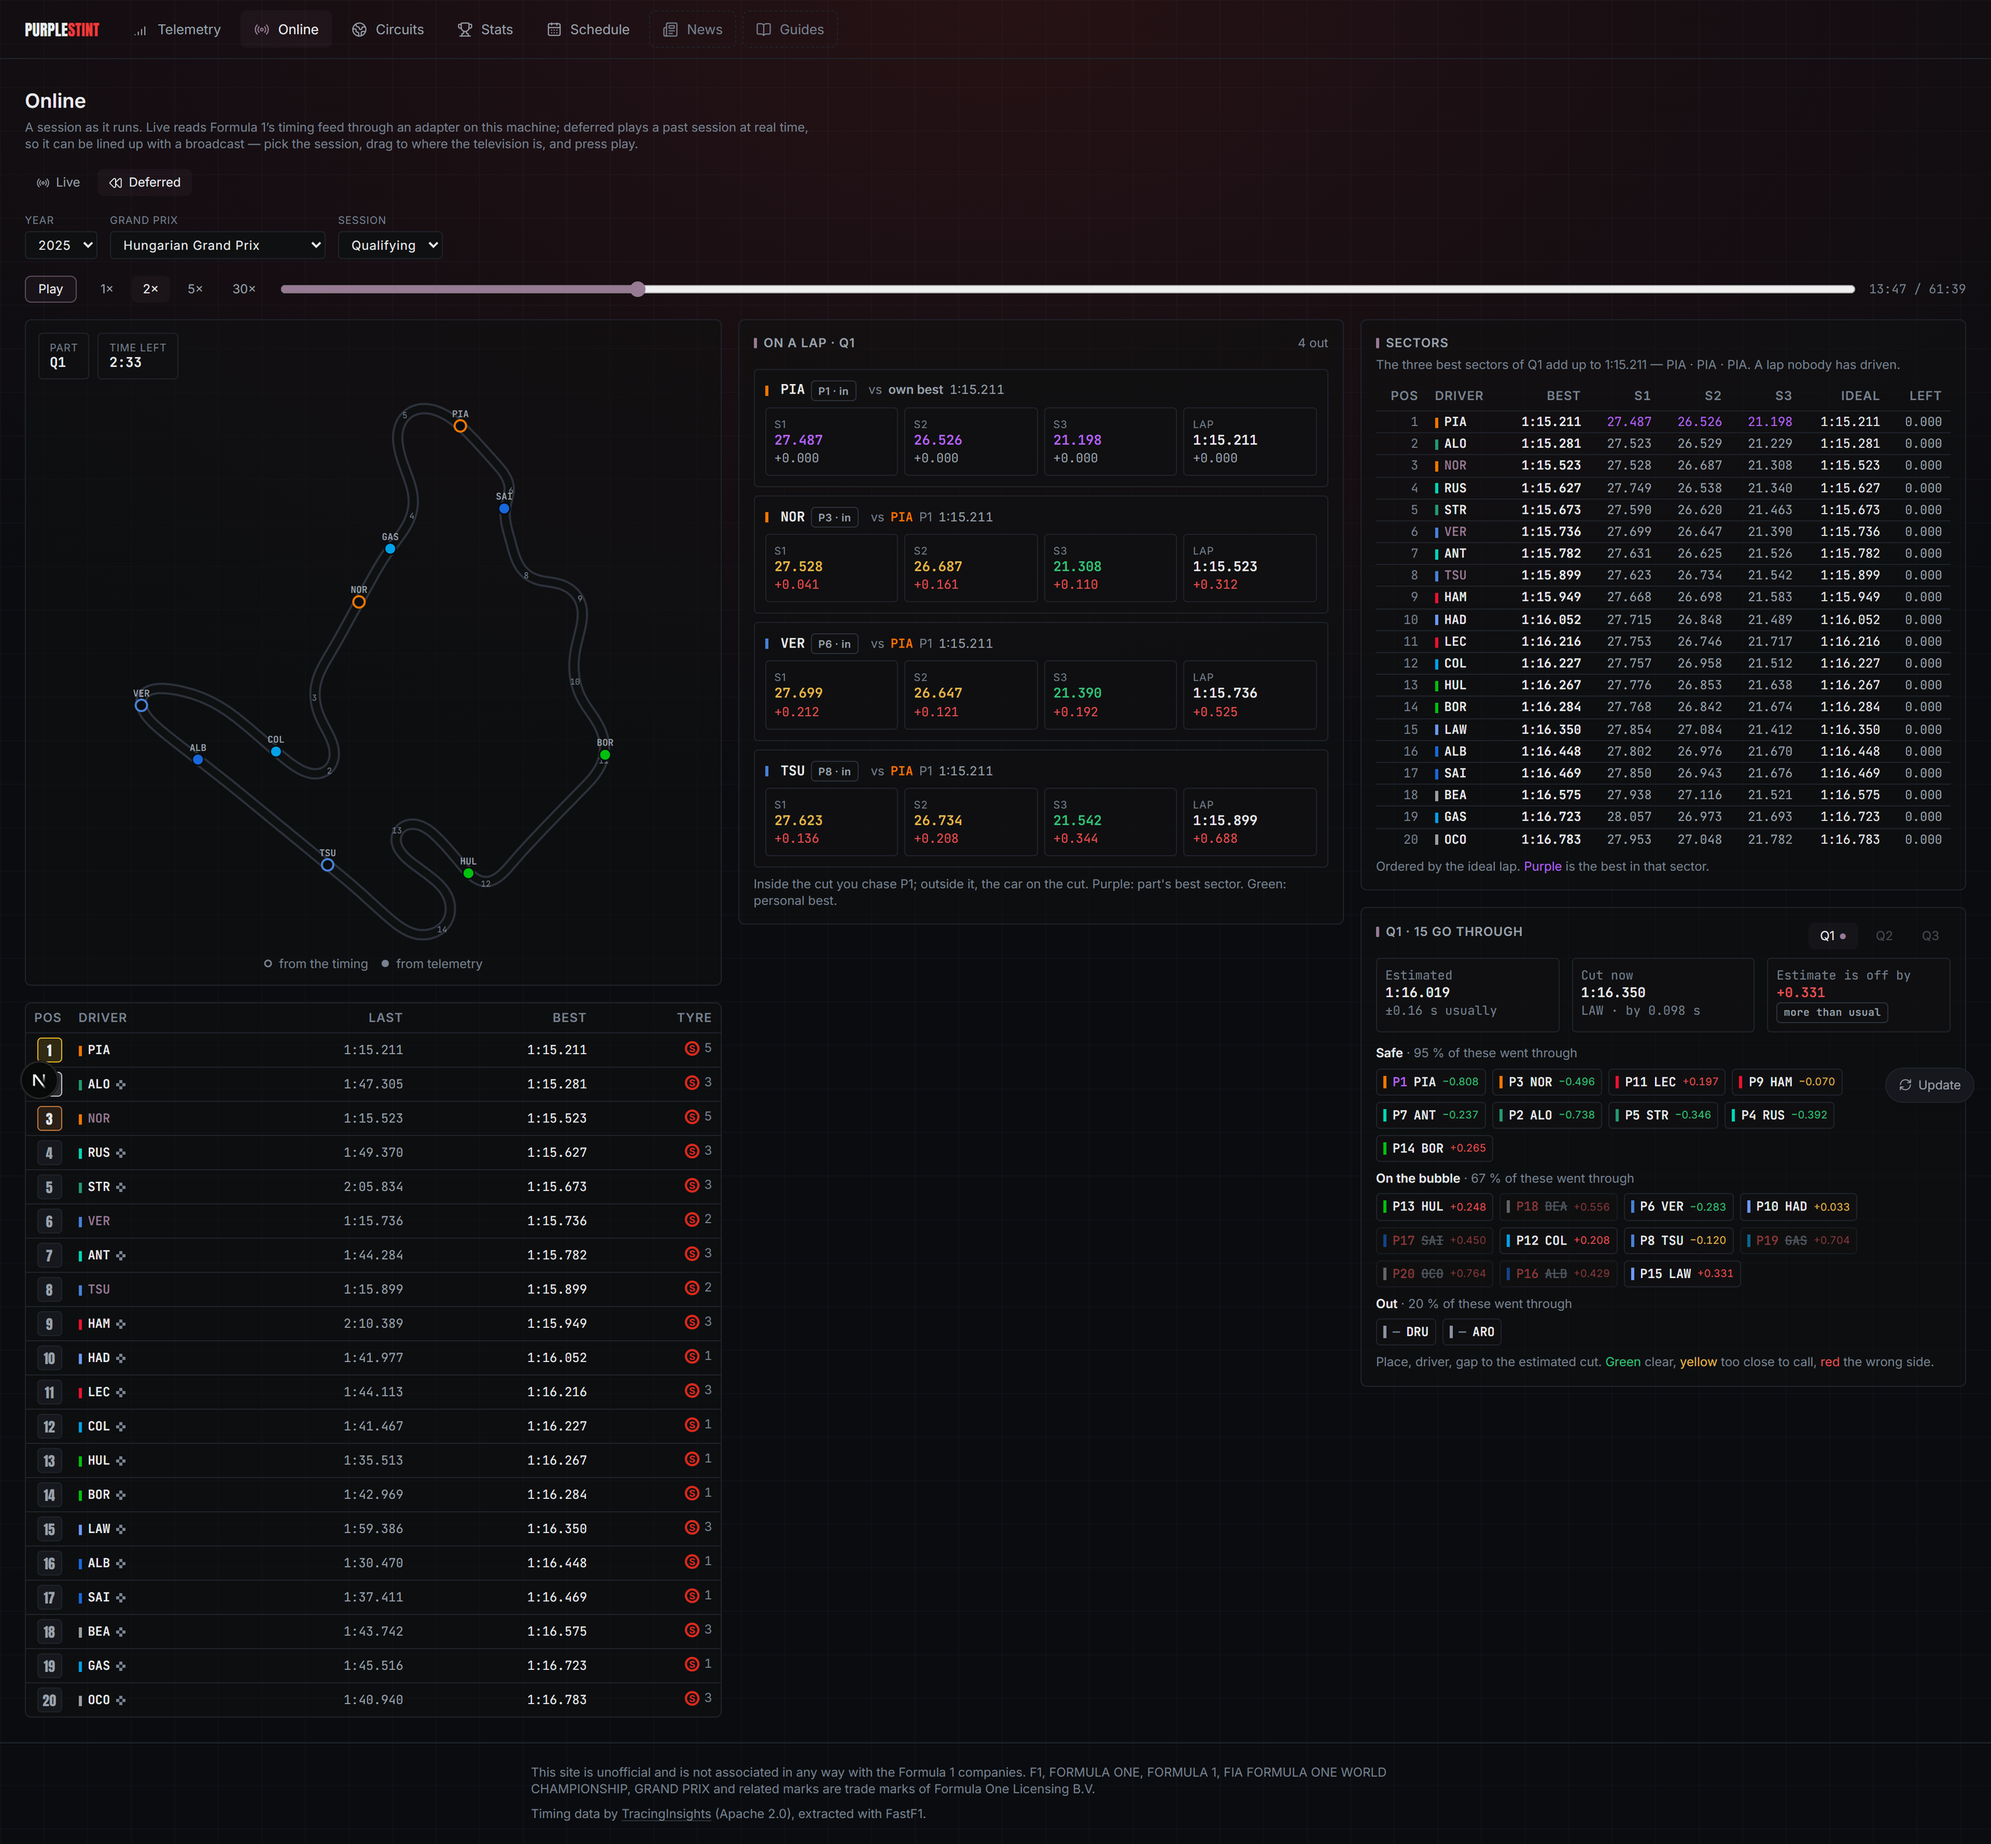
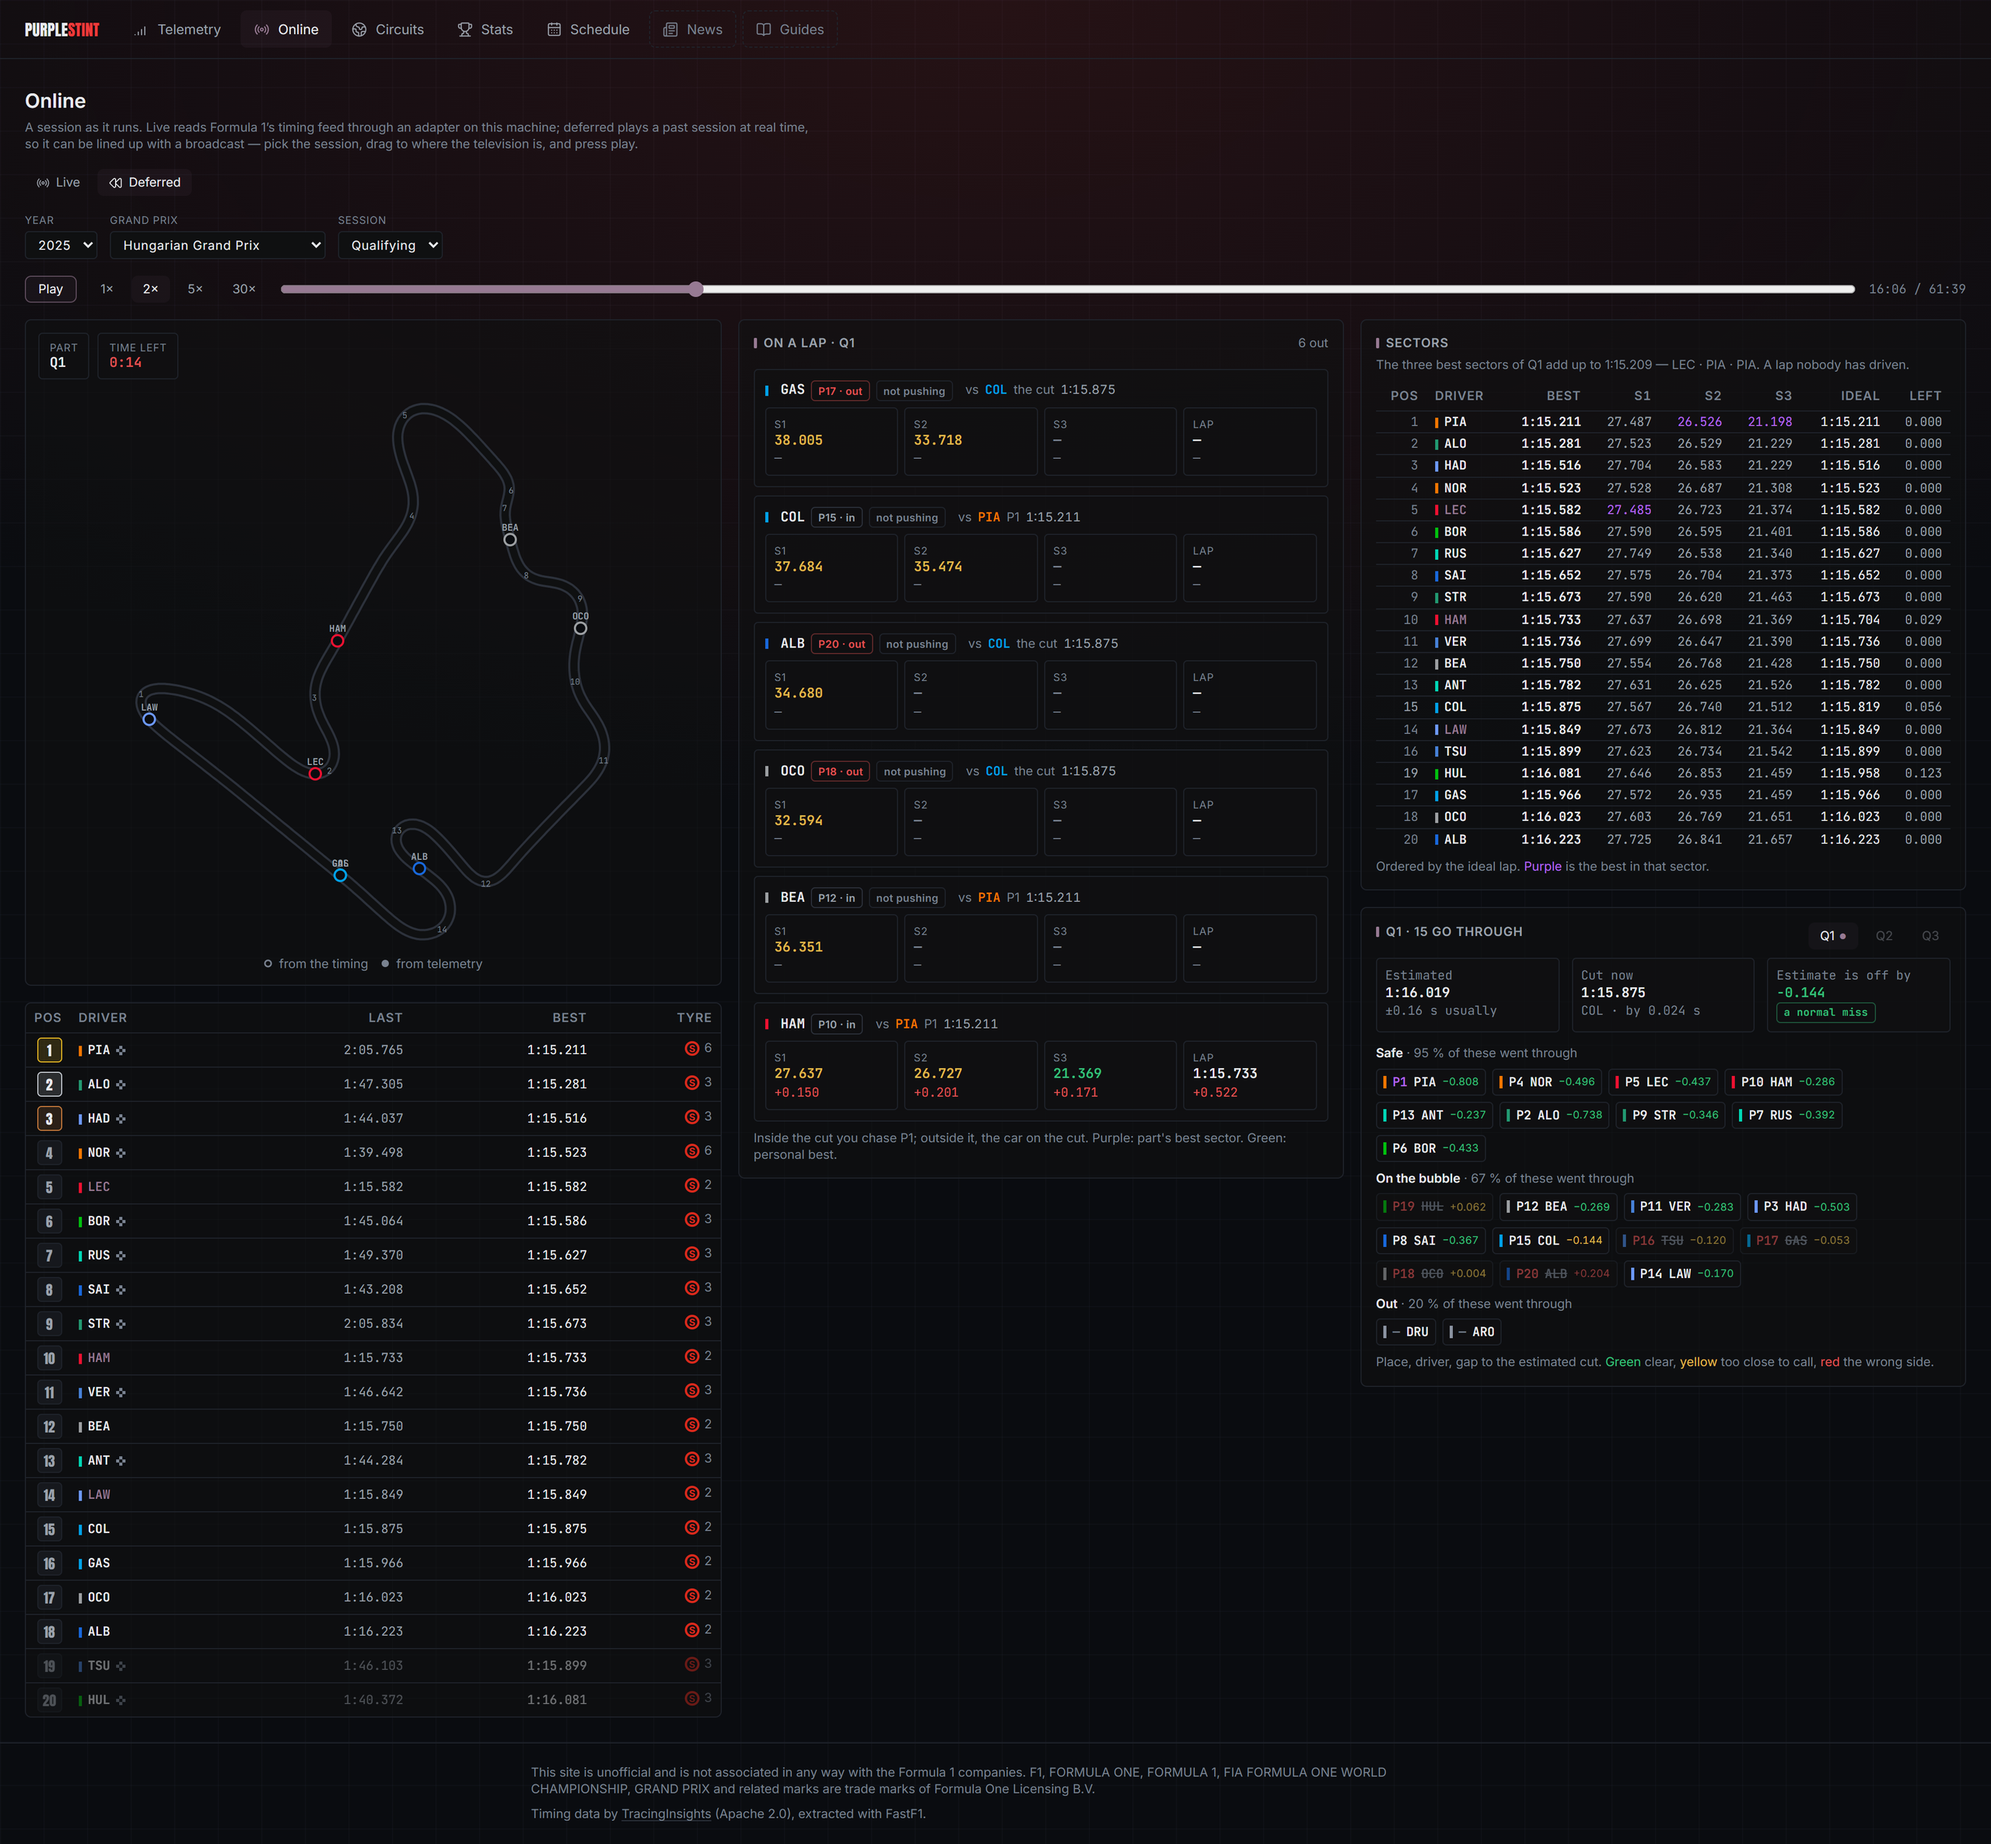
Purple Stint: every Online paragraph gets its picture
Four fixes to the section, all of them the reader's point of view.

The development chrome is out of the shots: the local data-update button and
Next's dev overlay are removed before the shutter, and a fullPage capture had
been parking the fixed one in the middle of the image.

The sessions run Friday, Saturday, Sunday, as a weekend does.

Qualifying is caught with the estimate already scored against the cut — the
cut at 1:15.875, the estimate 0.144 s off it and called a normal miss — which
is the view working rather than the view waiting.

And the map paragraph has the map: hollow cars placed from the timing, the
two solid ones drawn from their own telemetry, and the circuit's numbered
corners. It was the one claim on the page with nothing to look at.

diff --git a/index.html b/index.html
@@ -369,9 +369,10 @@ footer{text-align:center;padding:32px;border-top:1px solid var(--border);font-fa
 <div class="img-slider"><div class="img-slider-track" id="slider-ps-12"><div class="slide has-img shot" onclick="openLightbox(this)"><img loading="lazy" width="2560" height="2000" src="PurpleStint/P12 - Cut-off Madrid.png" alt="Cut-off — Madrid 2026: safe, on the bubble and out, with the measured rate beside each group"></div><div class="slide has-img shot" onclick="openLightbox(this)"><img loading="lazy" width="2560" height="2000" src="PurpleStint/P12 - Cut-off Hungary.png" alt="Cut-off — Hungary 2025: the estimate 0.150 s from the cut, a normal miss"></div></div><div class="slider-controls"><button class="slider-btn" onclick="scrollSlider(&#39;slider-ps-12&#39;,-1)">←</button><button class="slider-btn" onclick="scrollSlider(&#39;slider-ps-12&#39;,1)">→</button></div></div>
 
 <p><strong>Watching a session as it runs.</strong> A second way into the data: a live timing screen, a map and a panel of analysis that changes with the session. It reads Formula 1&rsquo;s own timing feed through a small adapter that runs on one machine, or replays an exported session at real time so it can be lined up with a broadcast. That feed carries no licence, so the page is built and then <em>deleted</em> from the published export by the same script that reports the deployment&rsquo;s size, and a test fails the build if the route ever survives it; what ships is the replay path and the analysis, both built from the Apache-2.0 data. The two sources meet at one frame format and one reducer, so the live tool and the replay share every line except the adapter &mdash; which is what lets the live path be tested at all: 51 tests drive it by folding whole real sessions off disk and checking the state against the session&rsquo;s own classification.</p>
-<p><strong>The map was empty, and the measurement said so.</strong> The circuit map looked broken and the first job was to find out why rather than to style it. Instrumented in a real browser it held 60 fps with no long tasks, and drew no car at all for twenty seconds at a stretch: the exported telemetry is one lap per driver, which over twenty cars is 41 % of a qualifying&rsquo;s clock and 28 % of a race&rsquo;s &mdash; fewer than one car on screen at any moment. So the map is driven from the timing instead, which is complete, and the telemetry is kept for the one thing timing cannot give: the shape of a lap. A car a third of the way through a lap in <em>time</em> is not a third of the way round in <em>distance</em>, and that relation is measured once off a real lap and every car placed through it. Checked against the telemetry it does not use, the placement lands 6 m from the truth at the median and 12 m at the ninetieth percentile on a qualifying lap, 7 m and 17 m on a race lap, on a 4.35 km circuit. A car whose telemetry is running is still drawn from it, solid; the rest are hollow, because an estimate should look like one.</p>
 <p><strong>Each session asks its own question.</strong> Friday reads the long runs &mdash; stints between pit visits with at least five clean laps, with the median pace, the interquartile spread as consistency and the slope of the run as degradation &mdash; where clean means within 12 % of the stint&rsquo;s best, a rule added after one cool-down lap put a 41 s lap inside a Friday run. Saturday carries the cut-off above, and beside it each car on a lap against the time that matters to it: inside the cut you chase P1, outside it the car on the cut, sector by sector. Sunday leads with the battles &mdash; consecutive cars within a second and a half, or closing fast enough to be soon, with the cumulative delta at each sector both have passed and the laps until the chaser arrives &mdash; and then the net order, where a stop&rsquo;s worth of time is added to whoever still owes the mandatory change. What a stop costs is measured from the stops that race has already had rather than assumed: 20.2 s over 23 stops at Hungary 2025, against the 19 s of pit lane the site reports elsewhere. The session clock is derived the same way, from the moment the pit lane opened plus the regulation length, and refused where it cannot be trusted &mdash; a red-flagged qualifying stops the clock and nothing in the export says for how long, so Monaco 2025 offers a clock for Q3 and none for Q1 or Q2.</p>
-<div class="img-slider"><div class="img-slider-track" id="slider-ps-13"><div class="slide has-img shot" onclick="openLightbox(this)"><img loading="lazy" width="2560" height="2104" src="PurpleStint/P13 - Online race.png" alt="Online — race: the circuit with the lap counter, the order beside it, and the battles with what the chaser is taking at each sector"></div><div class="slide has-img shot" onclick="openLightbox(this)"><img loading="lazy" width="2560" height="2372" src="PurpleStint/P13 - Online qualifying.png" alt="Online — qualifying: the part's clock, a car on a lap against the time that matters to it, the sector board and the cut"></div><div class="slide has-img shot" onclick="openLightbox(this)"><img loading="lazy" width="2560" height="2372" src="PurpleStint/P13 - Online practice.png" alt="Online — practice: long runs with pace, spread and degradation, beside the qualifying simulations"></div></div><div class="slider-controls"><button class="slider-btn" onclick="scrollSlider(&#39;slider-ps-13&#39;,-1)">&larr;</button><button class="slider-btn" onclick="scrollSlider(&#39;slider-ps-13&#39;,1)">&rarr;</button></div></div>
+<div class="img-slider"><div class="img-slider-track" id="slider-ps-13"><div class="slide has-img shot" onclick="openLightbox(this)"><img loading="lazy" width="2560" height="2372" src="PurpleStint/P13 - Online practice.png" alt="Online — practice: long runs with pace, spread and degradation, beside the qualifying simulations"></div><div class="slide has-img shot" onclick="openLightbox(this)"><img loading="lazy" width="2560" height="2372" src="PurpleStint/P13 - Online qualifying.png" alt="Online — qualifying: the estimate scored against the cut as it stands, with six cars on a lap"></div><div class="slide has-img shot" onclick="openLightbox(this)"><img loading="lazy" width="2560" height="2104" src="PurpleStint/P13 - Online race.png" alt="Online — race: the order beside the circuit, and the battles with what the chaser is taking at each sector"></div></div><div class="slider-controls"><button class="slider-btn" onclick="scrollSlider(&#39;slider-ps-13&#39;,-1)">&larr;</button><button class="slider-btn" onclick="scrollSlider(&#39;slider-ps-13&#39;,1)">&rarr;</button></div></div>
+<p><strong>The map was empty, and the measurement said so.</strong> The circuit map looked broken and the first job was to find out why rather than to style it. Instrumented in a real browser it held 60 fps with no long tasks, and drew no car at all for twenty seconds at a stretch: the exported telemetry is one lap per driver, which over twenty cars is 41 % of a qualifying&rsquo;s clock and 28 % of a race&rsquo;s &mdash; fewer than one car on screen at any moment. So the map is driven from the timing instead, which is complete, and the telemetry is kept for the one thing timing cannot give: the shape of a lap. A car a third of the way through a lap in <em>time</em> is not a third of the way round in <em>distance</em>, and that relation is measured once off a real lap and every car placed through it. Checked against the telemetry it does not use, the placement lands 6 m from the truth at the median and 12 m at the ninetieth percentile on a qualifying lap, 7 m and 17 m on a race lap, on a 4.35 km circuit. A car whose telemetry is running is still drawn from it, solid; the rest are hollow, because an estimate should look like one.</p>
+<div class="img-slider"><div class="img-slider-track" id="slider-ps-14"><div class="slide has-img shot" onclick="openLightbox(this)"><img loading="lazy" width="1370" height="1330" src="PurpleStint/P13 - Online map.png" alt="Online — the map: hollow cars placed from the timing, solid ones from their own telemetry, with the circuit's numbered corners"></div></div><div class="slider-controls"><button class="slider-btn" onclick="scrollSlider(&#39;slider-ps-14&#39;,-1)">&larr;</button><button class="slider-btn" onclick="scrollSlider(&#39;slider-ps-14&#39;,1)">&rarr;</button></div></div>
 <p><strong>Colour as data, not decoration.</strong> Every colour is a token in one stylesheet and no component may hold a literal, which a test enforces. Each of the eleven sections owns its own accent hue, and the hues are chosen by search rather than by taste: a sweep of the sRGB cube for the colour furthest in CIEDE2000 from all 53 already in use, meaning the other accents, the timing and compound semantics, and the 21 team colours the data carries. The most recent one came out at 6.03:1 contrast and ΔE00 17.35 from its nearest neighbour, against a spec minimum of 15. Team colours are reserved for identity and never reused as interface colour, because a series colour on a chart is data. The whole thing exports to 8 220 files at 41 % of Cloudflare Pages' file cap, with a median page of 130 KB and no page over 0.4 MB, and the build fails if either limit is crossed.</p>
 <div class="img-slider"><div class="img-slider-track" id="slider-ps-8">
 <div class="slide has-img shot" onclick="openLightbox(this)"><img width="2560" height="1800" loading="lazy" src="PurpleStint/P10 - Circuits globe.png" alt="Circuits — WebGL globe of the season calendar"></div>
